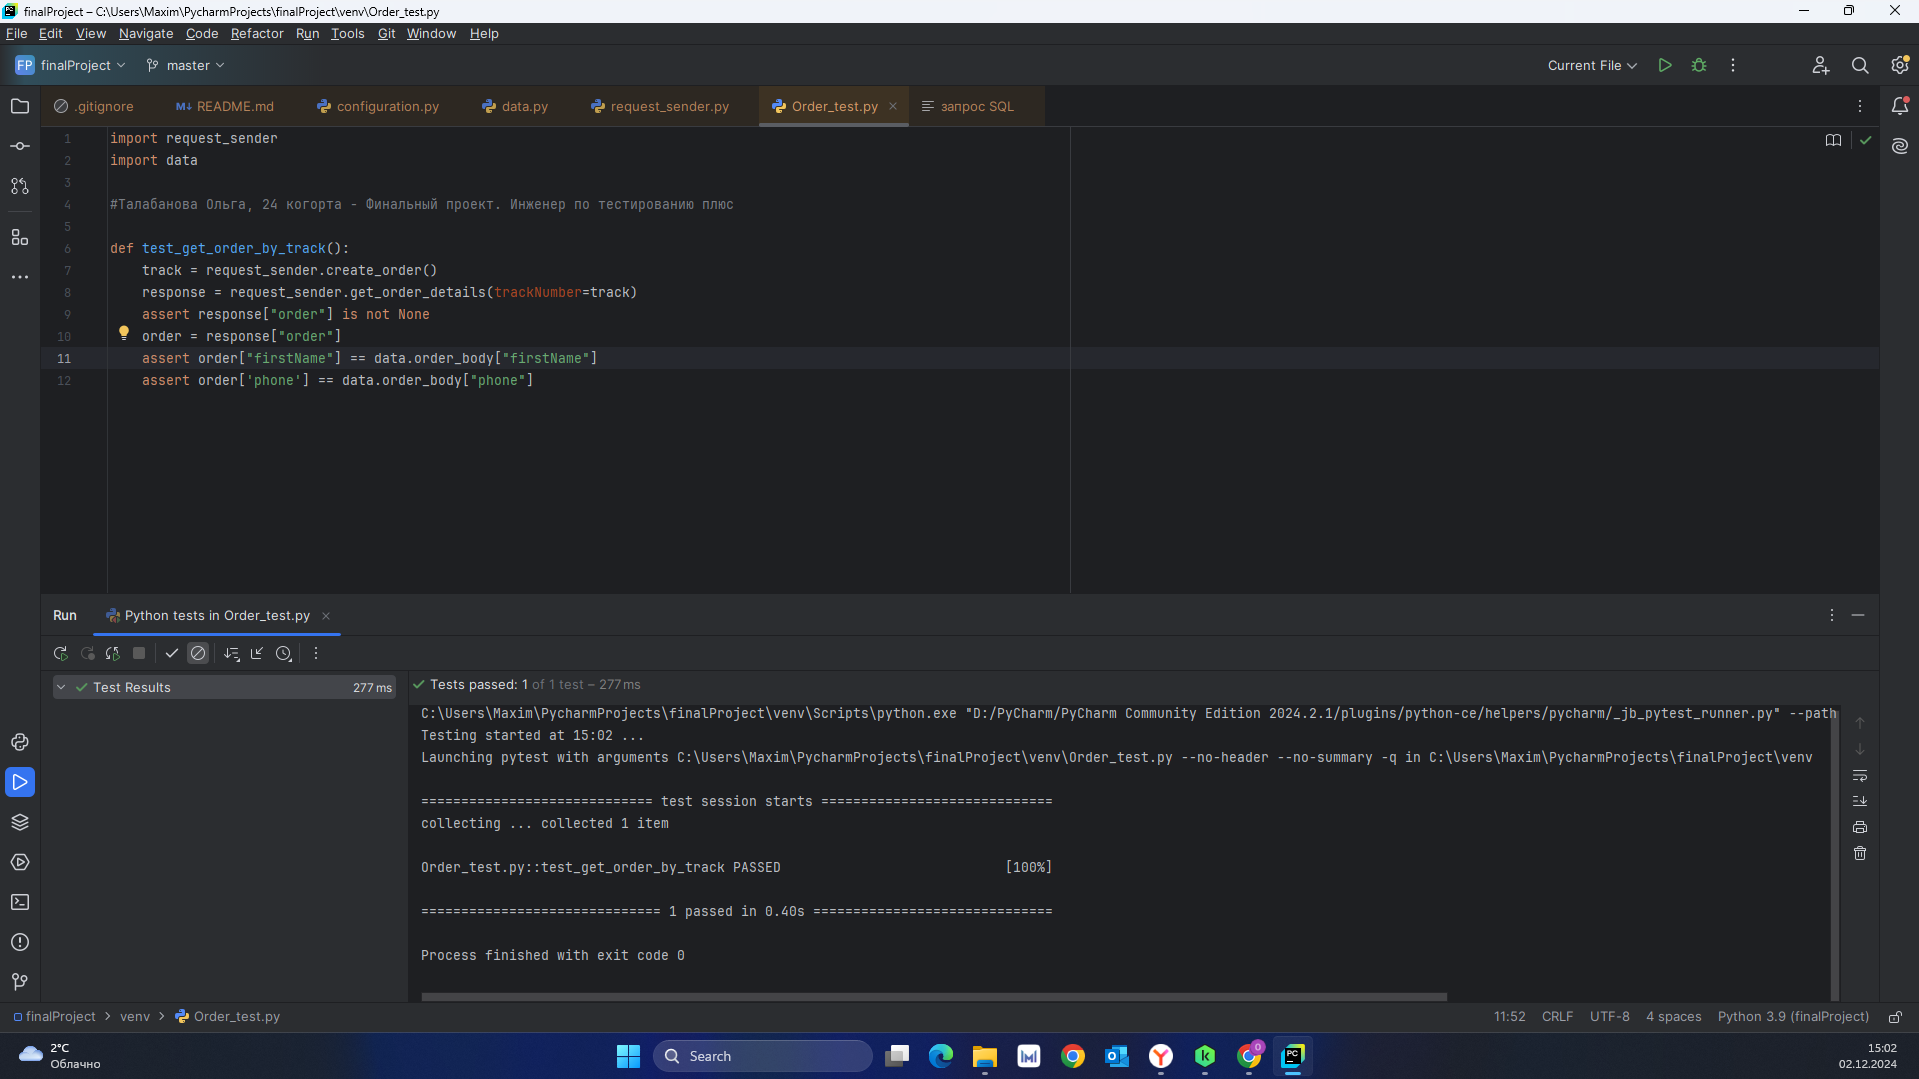
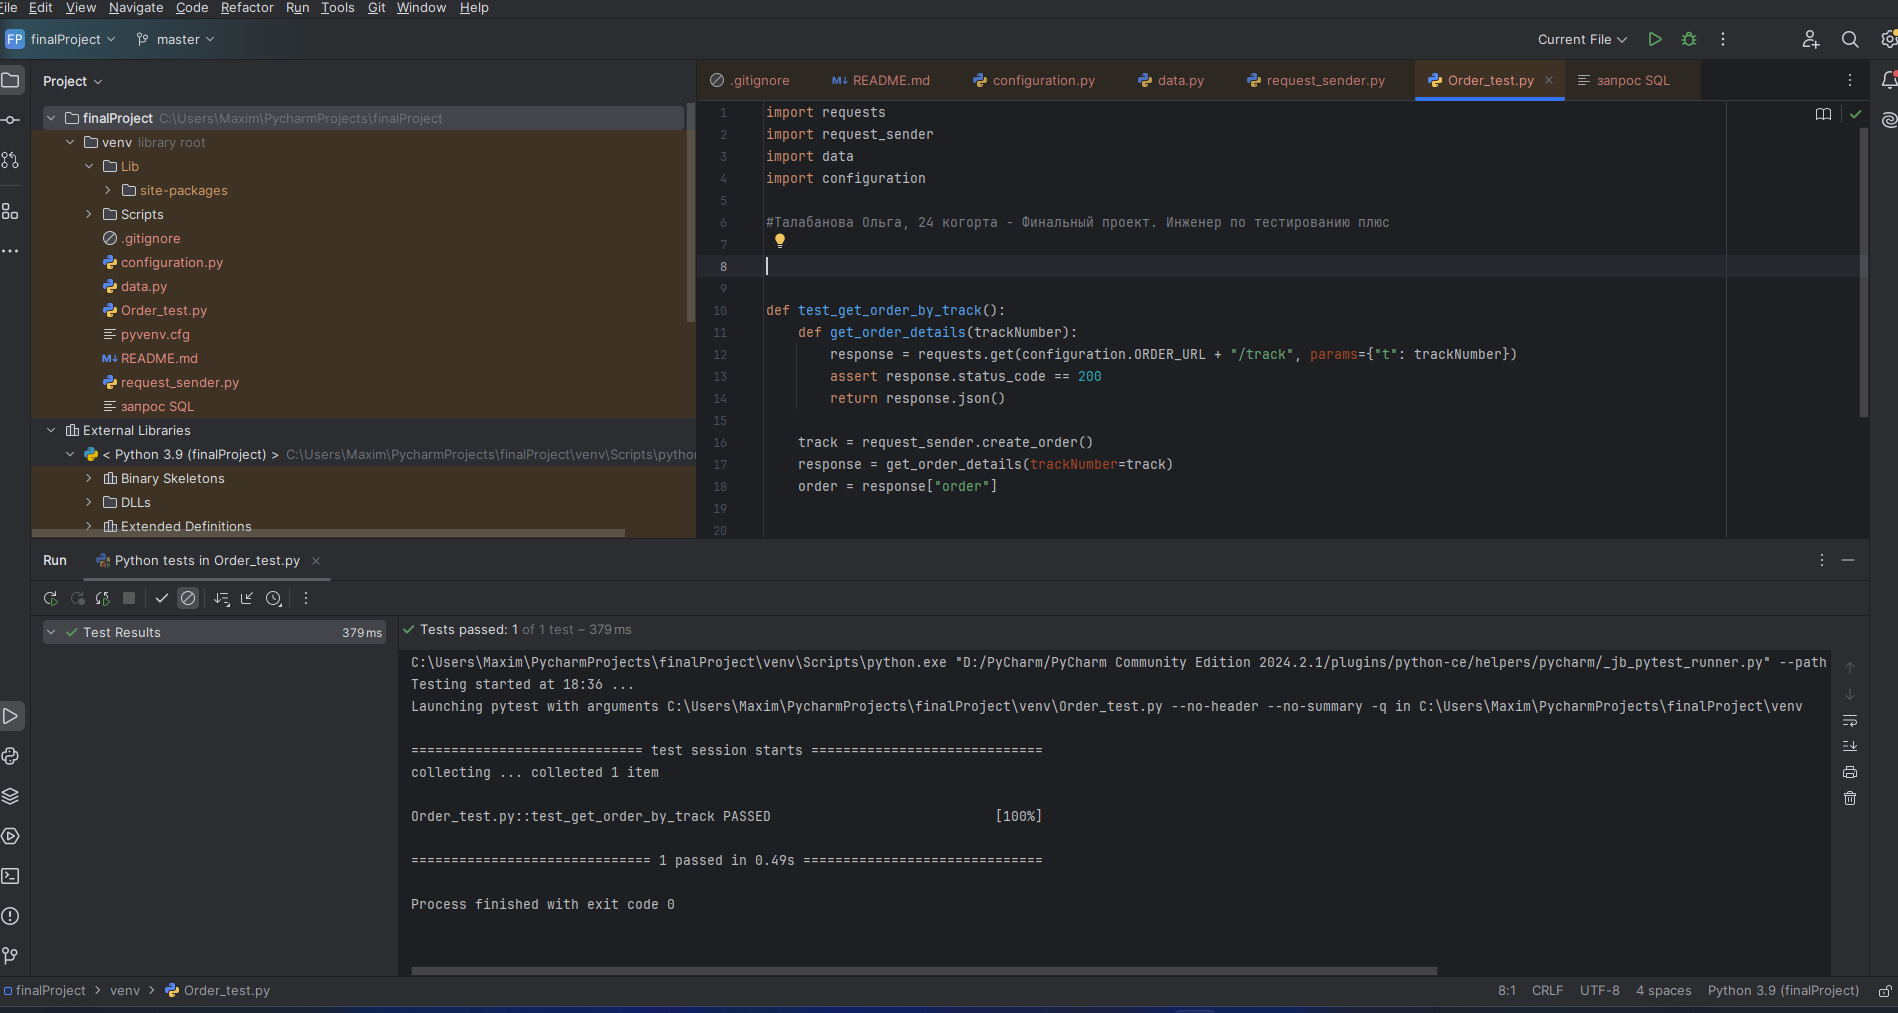
2

diff --git a/Order_test.py b/Order_test.py
@@ -1,12 +1,22 @@
+import requests
 import request_sender
 import data
+import configuration
 
 #Талабанова Ольга, 24 когорта - Финальный проект. Инженер по тестированию плюс
 
+
+
 def test_get_order_by_track():
+    def get_order_details(trackNumber):
+        response = requests.get(configuration.ORDER_URL + "/track", params={"t": trackNumber})
+        assert response.status_code == 200
+        return response.json()
+
     track = request_sender.create_order()
-    response = request_sender.get_order_details(trackNumber=track)
-    assert response["order"] is not None
+    response = get_order_details(trackNumber=track)
     order = response["order"]
-    assert order["firstName"] == data.order_body["firstName"]
-    assert order['phone'] == data.order_body["phone"]
+
+
+
+

diff --git a/request_sender.py b/request_sender.py
@@ -5,11 +5,10 @@ import data
 def create_order():
     response = requests.post (configuration.ORDER_URL,
                               json = data.order_body)
-    assert response.status_code == 201
     return response.json()['track']
 
-def get_order_details(trackNumber):
-    response = requests.get(configuration.ORDER_URL + "/track", params= {"t":trackNumber})
-    assert response.status_code == 200
-    return response.json ()
+
+
+
+
 

diff --git a/configuration.py b/configuration.py
@@ -1,2 +1,2 @@
-SERVICE_URL = "https://5430e932-9d99-460a-be67-cae6d07d76fb.serverhub.praktikum-services.ru"
+SERVICE_URL = "https://ac05f27e-99a9-4fa4-9ffd-917f215a66c2.serverhub.praktikum-services.ru"
 ORDER_URL = SERVICE_URL + "/api/v1/orders"

diff --git a/README.md b/README.md
@@ -1,3 +1,29 @@
 # Практический блок: вторая часть
-- Работа с базой данных
-- Автоматизация теста к API
+# Работа с базой данных
+- Задание 1
+  Представь: тебе нужно проверить, отображается ли созданный заказ в базе данных.
+  Для этого: выведи список логинов курьеров с количеством их заказов в статусе «В доставке» (поле inDelivery = true).
+
+- Задание 2
+  Ты тестируешь статусы заказов. Нужно убедиться, что в базе данных они записываются корректно.
+  Для этого: выведи все трекеры заказов и их статусы.
+  Статусы определяются по следующему правилу:
+  Если поле finished == true, то вывести статус 2.
+  Если поле canсelled == true, то вывести статус -1.
+  Если поле inDelivery == true, то вывести статус 1.
+  Для остальных случаев вывести 0.
+  Технические примечания:
+  Доступ к базе осуществляется с помощью команды psql -U morty -d scooter_rent. Пароль: smith.
+  У psql есть особенность: если таблица в базе данных с большой буквы, то её в запросе нужно брать в кавычки. Например,
+  select * from “Orders”.
+  
+  
+# Автоматизация теста к API
+Теперь автоматизируй сценарий, который подготовили коллеги-тестировщики:
+Клиент создает заказ.
+Проверяется, что по треку заказа можно получить данные о заказе.
+Шаги автотеста:
+Выполнить запрос на создание заказа.
+Сохранить номер трека заказа.
+Выполнить запрос на получения заказа по треку заказа.
+Проверить, что код ответа равен 200.
